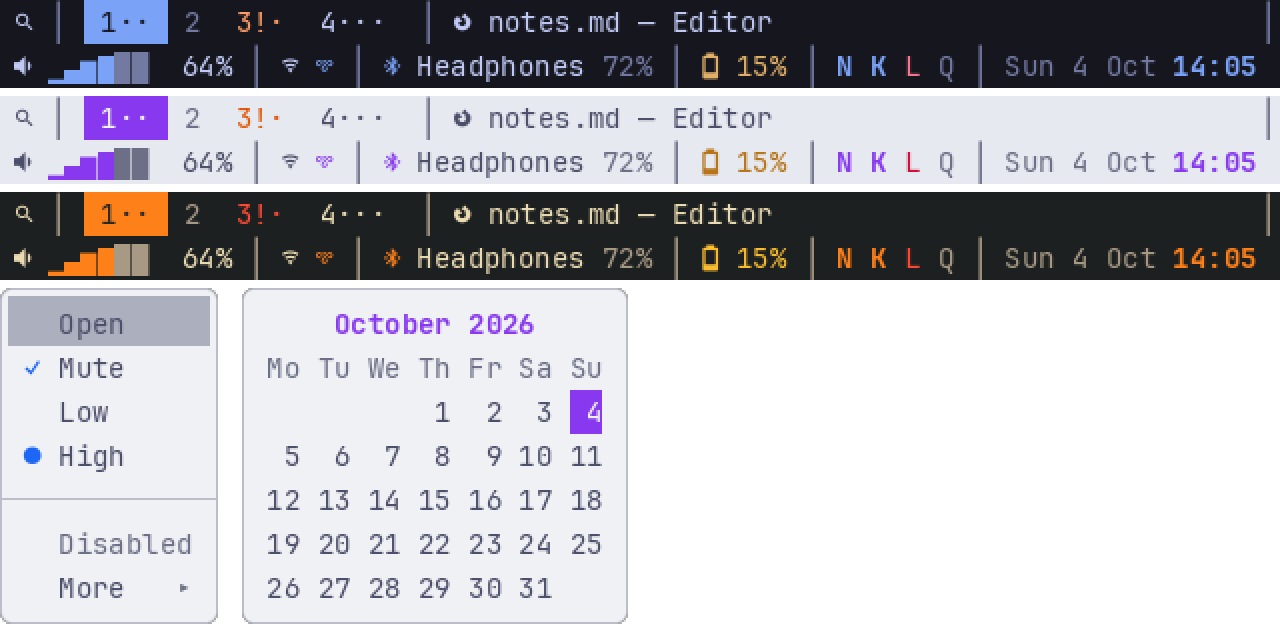
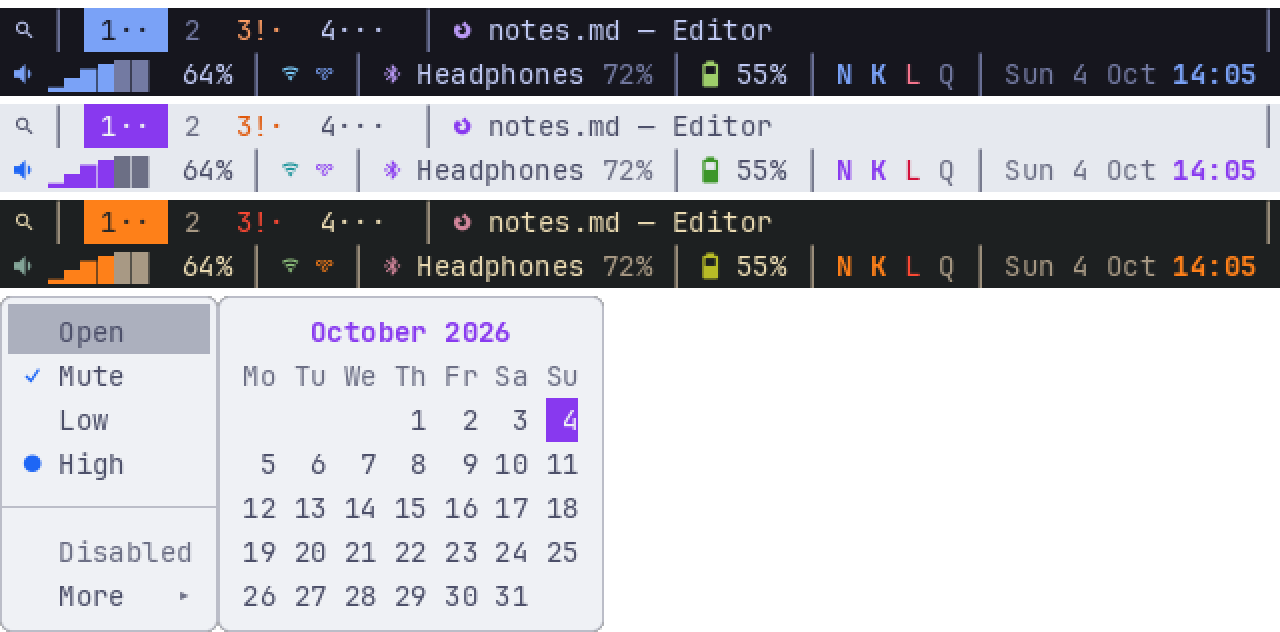
fix(demon): a charging battery is green under module colours; regenerate themes.png with the hues
Claude-Session: https://claude.ai/code/session_01HzNeDR4JYYs9cqajYqdQVP

diff --git a/crates/alpheus-demon/src/segments.rs b/crates/alpheus-demon/src/segments.rs
@@ -263,8 +263,10 @@ pub(crate) fn battery(feed: &Feed<PowerState>, config: &BatteryConfig, mc: Modul
     };
     let mut pieces = Vec::new();
     if let Some(b) = state.laptop {
-        // Charging keeps its accent, like a low charge its warn or error: a state wins over the hue.
-        let state = if b.charge == Charge::Charging { Some(Style::ACCENT) } else { charge_state(b.percent) };
+        // Without hues a charging battery keeps its accent (the old look). With hues it is green like
+        // a discharging one: its glyph already says it charges (Mae, 2026-10-07). A low charge's
+        // warn or error wins over the hue either way.
+        let state = if b.charge == Charge::Charging && mc == ModuleColors::None { Some(Style::ACCENT) } else { charge_state(b.percent) };
         pieces.push(piece(format!("{} ", battery_icon(b)), state.unwrap_or_else(|| icon_style(mc, Hue::Green, Style::NORMAL))));
         pieces.push(piece(format!("{}%", b.percent), state.unwrap_or_else(|| text_style(mc, Hue::Green, Style::NORMAL))));
     }
@@ -604,6 +606,18 @@ mod tests {
     }
 
     #[test]
+    fn a_charging_battery_is_green_under_icons_and_full() {
+        let laptop = |percent, charge| Feed::Ready(PowerState { laptop: Some(Battery { percent, charge }), peripherals: vec![] });
+        let d = &BatteryConfig::default();
+        let at = |mc, percent, charge| draw(&super::battery(&laptop(percent, charge), d, mc).unwrap()).1;
+        assert_eq!(at(ModuleColors::None, 93, Charge::Charging), "aaaaa", "None: the accent, as before");
+        assert_eq!(at(ModuleColors::Icons, 93, Charge::Charging), "gg...", "Icons: the green icon, the text normal");
+        assert_eq!(at(ModuleColors::Full, 93, Charge::Charging), "ggggg", "Full: green icon and text");
+        assert_eq!(at(ModuleColors::Icons, 93, Charge::Charging), at(ModuleColors::Icons, 93, Charge::Discharging));
+        assert_eq!(at(ModuleColors::Full, 15, Charge::Charging), "wwwww", "a low charge still wins");
+    }
+
+    #[test]
     fn battery_tint_boundary_at_19_and_20() {
         // Warn tint strictly below LOW (20): 19 % is low, 20 % is not (Mae,
         // 2026-10-04); see the `b.percent < LOW` comparison in `battery`.
@@ -838,7 +852,12 @@ mod tests {
             assert_eq!(draw(&super::battery(&discharging(15), d, mc).unwrap()).1, "wwwww", "low battery stays warn under {mc:?}");
             assert_eq!(draw(&super::battery(&discharging(9), d, mc).unwrap()).1, "eeee", "critical stays error under {mc:?}");
             let charging = Feed::Ready(PowerState { laptop: Some(Battery { percent: 93, charge: Charge::Charging }), peripherals: vec![] });
-            assert_eq!(draw(&super::battery(&charging, d, mc).unwrap()).1, "aaaaa", "charging keeps its accent under {mc:?}");
+            let want = match mc {
+                ModuleColors::None => "aaaaa",
+                ModuleColors::Icons => "gg...",
+                ModuleColors::Full => "ggggg",
+            };
+            assert_eq!(draw(&super::battery(&charging, d, mc).unwrap()).1, want, "charging: accent under None, green otherwise ({mc:?})");
             let hot = Sample { cpu: Some(50), memory: None, temperature: Some(85) };
             let c = ResourcesConfig { graph: 0, ..ResourcesConfig::default() };
             assert_eq!(
@@ -858,7 +877,7 @@ mod tests {
     }
 
     /// The same bar under each setting: the representative snapshots. The battery discharges (a
-    /// charging one keeps its accent), so the green shows.
+    /// charging one is green too, or accent under None), so the green shows.
     fn hue_bar(mc: ModuleColors) -> Bar {
         let mut b = full_bar();
         b.apply(Msg::Battery(Some(PowerState { laptop: Some(Battery { percent: 55, charge: Charge::Discharging }), peripherals: vec![] })));

diff --git a/README.md b/README.md
@@ -317,12 +317,16 @@ The mapping is fixed:
 | RAM | yellow |
 | temperature | red |
 
+With `graph = 0`, only `full` colours the CPU (its icon is the graph).
+
 Workspaces, the clock, the tray icons, the launcher button and the
 separators keep their colours. **States win over the hue**: a low (`warn`) or
 critical (`error`) battery, a hot temperature, a network with limited
-connectivity, a charging battery (accent), a muted volume, an offline or
+connectivity, a muted volume, an offline or
 down module, an urgent workspace and a tray item that needs attention keep
-their state colours whatever `module_colors` says. The Theme tab of the
+their state colours whatever `module_colors` says. A charging battery is
+green like a discharging one (its glyph shows it charges); under `none` it
+keeps the accent. The Theme tab of the
 control center has a "Module colours" row (None, Icons, Full) with a preview.
 
 A colour file may carry the seven hues as optional keys (`red = "#f38ba8"`,
